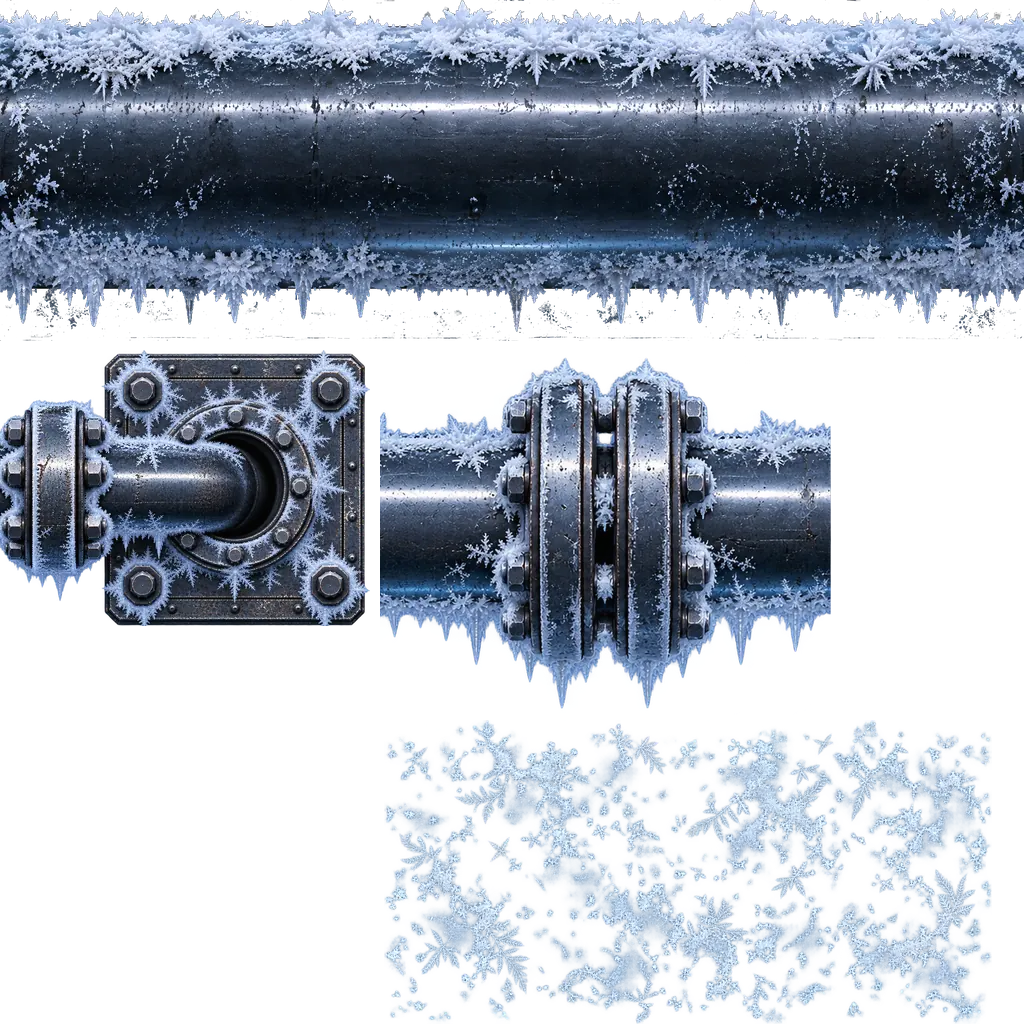
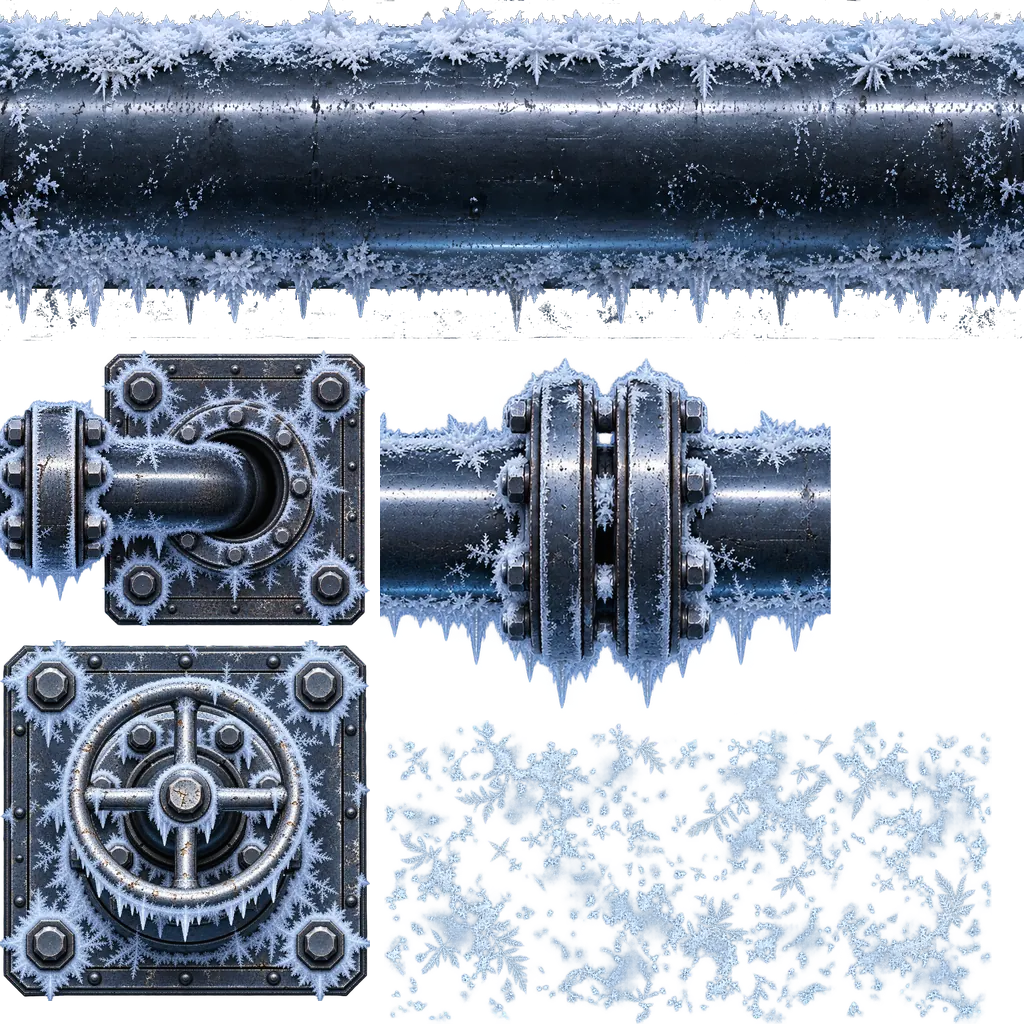
Les petits blocs froids : une tête de vanne, ou un arceau
Symptôme (aperçu sur iPad) : sur les petits blocs, la conduite ne
tenait pas — un joint écrasé entre deux moignons sur les blocs presque
carrés, deux traversées l'une dans l'autre sur un bloc moyen. Les pièces
étaient faites pour une conduite longue, et rien pour moins.

Correctif : le dessin suit la place (modeConduite, rapport L / T) :
- LONGUE (au moins deux traversées bout à bout, 2,73) : inchangée ;
- ARCEAU (de 1,6 à 2,73) : le tuyau sort du sol et y replonge — deux
  traversées bride contre bride, réduites ensemble (echelleArceau) pour
  tenir exactement dans le bloc ; les murs n'y changent rien ;
- VANNE (sous 1,6) : une tête de vanne gelée, carrée, au centre — une
  nouvelle image générée (plaque 1026 × 988 px, mesurée), ajoutée à
  l'atlas (cadre 370 × 361) et droite dans le repère du bloc.
La physique (piecesConduite) et le shader (conduiteSdfLocal) suivent les
trois modes ; l'ombre au sol et celle des lampes suivent le tuyau de
chaque mode (le volant, pour la vanne). Plus de « plot » à joint seul.
L'atlas passe à 441 Ko (qualité 78) : plafond de la famille à 450.

Vérification : conduite.spec — les seuils ; la vanne carrée centrée ;
l'arceau tient dans son bloc, ses deux traversées font toute la
longueur ; un mur n'y change rien ; le sens imposé change le dessin
(60 × 120 debout : arceau, couché : vanne) ; le cadre de la vanne est
celui du script. Le tableau 11 sous Chromium en double définition : le
[…]

Changed region(s): [[0.0, 0.625, 0.375, 1.0]]

diff --git a/src/render/renderer.ts b/src/render/renderer.ts
@@ -179,8 +179,20 @@ const vec4 CN_CORPS = ${v4(A.corps)};
 const vec4 CN_CADRE_BOUT = ${v4(A.bout)};
 const vec4 CN_CADRE_JOINT = ${v4(A.joint)};
 const vec4 CN_CADRE_GIVRE = ${v4(A.givre)};
+const vec4 CN_CADRE_VANNE = ${v4(A.vanne)};
+const float CN_TUYAU_TRAV = ${f(C.tuyauTraversee)};
+const float CN_SEUIL_VANNE = ${f(C.seuilVanne)};
+const float CN_VANNE_L = ${f(C.vanneImgL)};
+const float CN_VANNE_H = ${f(C.vanneImgH)};
 
-bool conduiteLongue(float L, float T) { return L >= (2.0 * CN_BOUT + 0.1) * T; }
+// le dessin selon la place — JUMEAUX de conduiteLongue, modeConduite et
+// echelleArceau (formes.ts) : 0 vanne, 1 arceau, 2 longue
+bool conduiteLongue(float L, float T) { return L >= 2.0 * CN_BOUT * T; }
+float modeConduite(float L, float T) {
+  if (conduiteLongue(L, T)) return 2.0;
+  return L < CN_SEUIL_VANNE * T ? 0.0 : 1.0;
+}
+float echelleArceau(float L, float T) { return min(1.0, L / (2.0 * CN_BOUT * T)); }
 
 float cnRect(float s, float t, float cs, float hs, float ht) {
   vec2 q = vec2(abs(s - cs) - hs, abs(t) - ht);
@@ -189,7 +201,7 @@ float cnRect(float s, float t, float cs, float hs, float ht) {
 
 // le joint le plus proche de s (abscisse centrée), ou 1e9 s'il n'y en a pas
 float jointPres(float s, float L, float T) {
-  if (!conduiteLongue(L, T)) return 0.0;
+  if (!conduiteLongue(L, T)) return 1e9;
   float n = floor((L * 0.5 - (CN_BOUT + 0.05 + CN_JOINT_DEMI) * T) / CN_PAS);
   if (n < 0.0) return 1e9;
   return clamp(floor(s / CN_PAS + 0.5), -n, n) * CN_PAS;
@@ -206,7 +218,21 @@ bool boutEnMur(float s, float bouts) {
 // pas de bride : le tuyau file jusqu'au bord du bloc — JUMEAU de
 // piecesConduite (formes.ts)
 float conduiteSdfLocal(float s, float t, float L, float T, float bouts) {
-  bool lg = conduiteLongue(L, T);
+  float mode = modeConduite(L, T);
+  if (mode < 0.5) {
+    float c = min(L, T);
+    return cnRect(s, t, 0.0, 0.5 * c, 0.5 * c);
+  }
+  if (mode < 1.5) {
+    float k = echelleArceau(L, T);
+    float dA = cnRect(s, t, 0.0, 0.5 * L, CN_TUYAU_TRAV * k * T);
+    dA = min(dA, cnRect(abs(s), t, L * 0.5 - (CN_BRIDE_A + CN_BRIDE_DE) * 0.5 * k * T,
+                        (CN_BRIDE_A - CN_BRIDE_DE) * 0.5 * k * T, 0.5 * k * T));
+    dA = min(dA, cnRect(abs(s), t, L * 0.5 - (CN_BB_A + CN_BB_DE) * 0.5 * k * T,
+                        (CN_BB_A - CN_BB_DE) * 0.5 * k * T, CN_BB_DEMI * k * T));
+    return dA;
+  }
+  bool lg = true;
   float retrait = lg ? CN_EMBOUT * T : 0.0;
   float a0 = -L * 0.5 + (boutEnMur(-1.0, bouts) ? 0.0 : retrait);
   float a1 = L * 0.5 - (boutEnMur(1.0, bouts) ? 0.0 : retrait);
@@ -224,6 +250,20 @@ float conduiteSdfLocal(float s, float t, float L, float T, float bouts) {
     d = min(d, cnRect(s, t, 0.5 * (j0 + j1), 0.5 * (j1 - j0), 0.5 * T));
   }
   return d;
+}
+
+// LA SILHOUETTE QUI OMBRE (ombre au sol, ombre des lampes) : le TUYAU,
+// pas la forme de collision — les brides y sont des rectangles pleins, et
+// leur ombre dure se lisait en pavés et en diagonales là où l'image est
+// ronde. La vanne ombre comme son volant (80 % de la plaque).
+float conduiteOmbreSdf(float s, float t, float L, float T) {
+  float mode = modeConduite(L, T);
+  if (mode < 0.5) {
+    float c = min(L, T);
+    return cnRect(s, t, 0.0, 0.40 * c, 0.40 * c);
+  }
+  if (mode < 1.5) return cnRect(s, t, 0.0, 0.5 * L, CN_TUYAU_TRAV * echelleArceau(L, T) * T);
+  return cnRect(s, t, 0.0, 0.5 * L, CN_TUYAU * T);
 }
 
 // le sens du tuyau : 0 auto (le grand côté), 1 horizontal, 2 vertical —
@@ -749,7 +789,7 @@ float conduiteOmbre(vec2 p, vec4 box, float code) {
   vec2 q = p - 0.5 * (box.xy + box.zw) - vec2(0.06, -0.06) * T;
   float s = horiz ? q.x : q.y;
   float t = horiz ? q.y : q.x;
-  float d = cnRect(s, t, 0.0, L * 0.5, CN_TUYAU * T);
+  float d = conduiteOmbreSdf(s, t, L, T);
   return mix(0.55, 1.0, smoothstep(-0.10 * T, 0.30 * T, d));
 }
 
@@ -762,17 +802,35 @@ vec4 conduiteNH3(vec2 loc, vec2 bsize, float px, float code) {
   float T = horiz ? bsize.y : bsize.x;
   float s = (horiz ? loc.x : loc.y) - L * 0.5; // le long, centré
   float t = (horiz ? loc.y : loc.x) - T * 0.5; // en travers, centré
-  bool lg = conduiteLongue(L, T);
+  float mode = modeConduite(L, T);
+  bool lg = mode > 1.5;
 
   vec4 acc = vec4(0.0);
+  if (mode < 0.5) {
+    // LA VANNE : la tête de vanne gelée, carrée, au centre du bloc — droite
+    // dans le repère du bloc (pas tournée avec le sens : c'est une vue du
+    // dessus, la lumière y reste en haut à gauche)
+    float c = min(L, T);
+    vec2 q = loc - 0.5 * bsize;
+    vec2 f = vec2(q.x / (CN_VANNE_L * c) + 0.5, 0.5 - q.y / (CN_VANNE_H * c));
+    acc = atlasCadre(CN_CADRE_VANNE, f, px, CN_CADRE_VANNE.z / (CN_VANNE_L * c));
+  } else if (mode < 1.5) {
+    // L'ARCEAU : le tuyau sort du sol et y replonge — deux traversées bride
+    // contre bride, réduites de k pour tenir ; à gauche, en miroir
+    float k = echelleArceau(L, T);
+    float lb = CN_BOUT * k * T;
+    vec2 f = vec2((abs(s) - (L * 0.5 - lb)) / lb, (CN_BOUT_H * k * T - t) / (2.0 * CN_BOUT_H * k * T));
+    acc = atlasCadre(CN_CADRE_BOUT, f, px, CN_CADRE_BOUT.w / (2.0 * CN_BOUT_H * k * T));
+  }
   // LE TRONÇON, répété EN MIROIR sur la longueur (l'image n'est pas
   // raccordable bord à bord : mesuré, 31 contre 8 à l'intérieur)
   float hb = CN_BANDE * T;
-  // un bout dans un mur : le tronçon file jusqu'au bord du bloc
-  bool mur = boutEnMur(s, bouts);
+  // un bout dans un mur : le tronçon file jusqu'au bord du bloc (une
+  // conduite longue seulement : l'arceau et la vanne tiennent dans le bloc)
+  bool mur = lg && boutEnMur(s, bouts);
   // un bout libre : le tronçon s'arrête sous la bride de la traversée
   float fin = (lg && !mur) ? L * 0.5 - CN_FIN_CORPS * T : L * 0.5;
-  if (abs(t) < hb && abs(s) < fin) {
+  if (lg && abs(t) < hb && abs(s) < fin) {
     float m = s / (CN_MOTIF * T);
     float tri = abs(fract(m * 0.5) * 2.0 - 1.0);
     acc = atlasCadre(CN_CORPS, vec2(tri, (hb - t) / (2.0 * hb)), px, CN_CORPS.w / (2.0 * hb));
@@ -790,7 +848,7 @@ vec4 conduiteNH3(vec2 loc, vec2 bsize, float px, float code) {
       acc = cnSur(acc, c * smoothstep(0.0, 0.02, f.x));
     }
   }
-  // LE JOINT à brides : sur un plot, seul au milieu ; ailleurs, tous les pas
+  // LE JOINT à brides, tous les pas, sur une conduite longue
   float sj = jointPres(s, L, T);
   if (sj < 1e8) {
     float dx = s - sj;
@@ -2843,8 +2901,8 @@ float sceneSdf(vec2 p, float alt) {
       vec2 szC = uBoxes[i].zw - uBoxes[i].xy;
       bool hC = conduiteHoriz(szC, conduiteSens(uBoxAux[i].z));
       vec2 qC = wb - 0.5 * (uBoxes[i].xy + uBoxes[i].zw);
-      d = min(d, cnRect(hC ? qC.x : qC.y, hC ? qC.y : qC.x, 0.0,
-                        0.5 * (hC ? szC.x : szC.y), CN_TUYAU * (hC ? szC.y : szC.x)));
+      d = min(d, conduiteOmbreSdf(hC ? qC.x : qC.y, hC ? qC.y : qC.x,
+                                  hC ? szC.x : szC.y, hC ? szC.y : szC.x));
       continue;
     }
     d = min(d, formeSdf(wb, uBoxes[i], dec.y, dec.z, dec.w));

diff --git a/src/game/formes.ts b/src/game/formes.ts
@@ -220,6 +220,14 @@ export const CONDUITE = {
   brideBoutDemi: 0.34,
   /** le tuyau file jusqu'au bout du bloc (sous la plaque) */
   embout: 0,
+  /** demi-épaisseur du tuyau de la traversée, givre compris (l'arceau) */
+  tuyauTraversee: 0.205,
+  /** sous ce rapport L / T, la conduite devient une tête de VANNE */
+  seuilVanne: 1.6,
+  /** l'image de la vanne autour de sa plaque (côté c = la plaque) : largeur
+   *  et hauteur de l'image, en c — la plaque en est centrée */
+  vanneImgL: 1.0195,
+  vanneImgH: 0.9942,
   /** le joint à brides : demi-longueur de l'image, haut et bas de l'image
    *  autour de l'axe, demi-longueur de ses brides */
   jointDemi: 0.698,
@@ -239,6 +247,7 @@ export const CONDUITE_ATLAS = {
   bout: [0, 350, 370, 276],
   joint: [380, 350, 451, 365],
   givre: [384, 720, 608, 304],
+  vanne: [0, 640, 370, 361],
 } as const
 
 /** LE SENS du tuyau (ObstacleBox.sens) : 0 auto — le long du grand côté —,
@@ -257,14 +266,33 @@ export function conduiteHoriz(w: number, h: number, sens?: number): boolean {
 /** Une conduite est LONGUE si ses deux pièces de bout y tiennent ; sinon,
  *  c'est un plot : un seul joint au milieu. */
 export function conduiteLongue(L: number, T: number): boolean {
-  return L >= (2 * CONDUITE.bout + 0.1) * T
+  return L >= 2 * CONDUITE.bout * T
+}
+
+/** LE DESSIN SELON LA PLACE (L / T). Une conduite longue a sa place ; en
+ *  dessous, ses pièces se chevauchaient (vu en aperçu sur iPad : un joint
+ *  écrasé entre deux moignons, deux traversées l'une dans l'autre) :
+ *  · VANNE (moins de 1,6) : une tête de vanne gelée, carrée, au centre ;
+ *  · ARCEAU (jusqu'à 2 traversées bout à bout) : le tuyau sort du sol et y
+ *    replonge — les deux traversées se rejoignent bride contre bride,
+ *    réduites ensemble (echelleArceau) pour tenir ;
+ *  · LONGUE : tronçon, joints, traversées ou murs aux bouts. */
+export type ModeConduite = 'vanne' | 'arceau' | 'longue'
+export function modeConduite(L: number, T: number): ModeConduite {
+  if (conduiteLongue(L, T)) return 'longue'
+  return L < CONDUITE.seuilVanne * T ? 'vanne' : 'arceau'
+}
+/** La réduction des deux traversées d'un arceau : elles se touchent au
+ *  milieu. 1 au seuil de la conduite longue. */
+export function echelleArceau(L: number, T: number): number {
+  return Math.min(1, L / (2 * CONDUITE.bout * T))
 }
 
 /** Les joints d'une conduite, en abscisse le long du bloc (centrée) : un tous
  *  les `pas` tant qu'ils restent à l'écart des pièces de bout ; au milieu,
  *  seul, sur un plot. */
 export function jointsConduite(L: number, T: number): number[] {
-  if (!conduiteLongue(L, T)) return [0]
+  if (!conduiteLongue(L, T)) return []
   const libre = L / 2 - (CONDUITE.bout + 0.05 + CONDUITE.jointDemi) * T
   const out: number[] = []
   const n = Math.floor(libre / CONDUITE.pas)
@@ -282,24 +310,39 @@ export const BOUT_MUR_POS = 2
  *  bout, les brides des joints — leur union est la forme. */
 export function piecesConduite(L: number, T: number, bouts = 0): [number, number, number][] {
   const C = CONDUITE
-  const longue = conduiteLongue(L, T)
-  // un bout DANS UN MUR (bouts : 1 côté négatif, 2 côté positif) n'a pas de
-  // bride : le tuyau file jusqu'au bord du bloc, et le mur le prend
+  const mode = modeConduite(L, T)
+  if (mode === 'vanne') {
+    // la plaque carrée de la vanne, centrée, du côté de l'épaisseur
+    const c = Math.min(L, T)
+    return [[-c / 2, c / 2, c / 2]]
+  }
+  if (mode === 'arceau') {
+    // deux traversées bride contre bride, réduites de k ; les murs n'y
+    // changent rien — la pièce entière tient dans le bloc
+    const k = echelleArceau(L, T)
+    return [
+      [-L / 2, L / 2, C.tuyauTraversee * k * T],
+      [L / 2 - C.brideA * k * T, L / 2 - C.brideDe * k * T, (k * T) / 2],
+      [-L / 2 + C.brideDe * k * T, -L / 2 + C.brideA * k * T, (k * T) / 2],
+      [L / 2 - C.brideBoutA * k * T, L / 2 - C.brideBoutDe * k * T, C.brideBoutDemi * k * T],
+      [-L / 2 + C.brideBoutDe * k * T, -L / 2 + C.brideBoutA * k * T, C.brideBoutDemi * k * T],
+    ]
+  }
+  // LONGUE — un bout DANS UN MUR (bouts : 1 côté négatif, 2 côté positif)
+  // n'a pas de traversée : le tuyau file jusqu'au bord du bloc, et le mur
+  // le prend
   const murNeg = (bouts & BOUT_MUR_NEG) !== 0
   const murPos = (bouts & BOUT_MUR_POS) !== 0
-  const retrait = longue ? C.embout * T : 0
   const out: [number, number, number][] = [
-    [-L / 2 + (murNeg ? 0 : retrait), L / 2 - (murPos ? 0 : retrait), C.tuyau * T],
+    [-L / 2 + (murNeg ? 0 : C.embout * T), L / 2 - (murPos ? 0 : C.embout * T), C.tuyau * T],
   ]
-  if (longue) {
-    if (!murPos) {
-      out.push([L / 2 - C.brideA * T, L / 2 - C.brideDe * T, T / 2])
-      out.push([L / 2 - C.brideBoutA * T, L / 2 - C.brideBoutDe * T, C.brideBoutDemi * T])
-    }
-    if (!murNeg) {
-      out.push([-L / 2 + C.brideDe * T, -L / 2 + C.brideA * T, T / 2])
-      out.push([-L / 2 + C.brideBoutDe * T, -L / 2 + C.brideBoutA * T, C.brideBoutDemi * T])
-    }
+  if (!murPos) {
+    out.push([L / 2 - C.brideA * T, L / 2 - C.brideDe * T, T / 2])
+    out.push([L / 2 - C.brideBoutA * T, L / 2 - C.brideBoutDe * T, C.brideBoutDemi * T])
+  }
+  if (!murNeg) {
+    out.push([-L / 2 + C.brideDe * T, -L / 2 + C.brideA * T, T / 2])
+    out.push([-L / 2 + C.brideBoutDe * T, -L / 2 + C.brideBoutA * T, C.brideBoutDemi * T])
   }
   for (const j of jointsConduite(L, T)) {
     out.push([Math.max(-L / 2, j - C.brideJoint * T), Math.min(L / 2, j + C.brideJoint * T), T / 2])

diff --git a/src/game/conduite.spec.ts b/src/game/conduite.spec.ts
@@ -11,6 +11,8 @@ import {
   FORME_CONDUITE,
   FORME_DISQUE,
   conduiteLongue,
+  echelleArceau,
+  modeConduite,
   formeContact,
   jointsConduite,
   piecesConduite,
@@ -55,7 +57,7 @@ describe('conduite — forme physique', () => {
   it('une longue conduite : brides aux bouts, joints au pas, à l’écart des bouts', () => {
     expect(conduiteLongue(670, 60)).toBe(true)
     expect(conduiteLongue(100, 100)).toBe(false)
-    expect(jointsConduite(100, 100)).toEqual([0]) // un plot : un joint au milieu
+    expect(jointsConduite(100, 100)).toEqual([]) // un petit bloc n'a pas de joint
     const j = jointsConduite(1200, 60)
     expect(j).toContain(0)
     expect(Math.max(...j) + CONDUITE.jointDemi * 60).toBeLessThanOrEqual(600 - CONDUITE.bout * 60)
@@ -91,17 +93,16 @@ describe('conduite — forme physique', () => {
     expect(contact(b, s, 63).dist).toBeCloseTo(3, 9)
   })
 
-  // LE SENS CHOISI à l'éditeur : un plot presque carré se couche ou se
-  // dresse, et sa collision le suit — le diamètre est l'AUTRE côté.
-  it('le sens imposé couche ou dresse le tuyau, collision comprise', () => {
-    const plot = box(0, 0, 100, 120, MAT_FROID) // auto : debout (120 > 100)
-    // hors du joint central (qui tient ±0,322·T autour du milieu)
-    const flanc = (b: ObstacleBox) => contact(b, 50 + CONDUITE.tuyau * 100 + 4, 105)
-    // debout, le tuyau a 100 de large : son flanc droit est à 50 + 0,28·100
-    expect(flanc(plot).dist).toBeCloseTo(4, 9)
-    expect(flanc({ ...plot, sens: SENS_VERTICAL }).dist).toBeCloseTo(4, 9)
-    // couché, il a 120 de diamètre et remplit la largeur : ce point est dedans
-    expect(flanc({ ...plot, sens: SENS_HORIZONTAL }).dist).toBeLessThan(0)
+  // LE SENS CHOISI à l'éditeur : il décide de ce qui tient dans le bloc —
+  // 60 × 120 debout est un arceau (le long des 120) ; couché, le tuyau
+  // n'aurait que 60 de long pour 120 d'épaisseur : une vanne de 60.
+  it('le sens imposé change le dessin, collision comprise', () => {
+    const b = box(0, 0, 60, 120, MAT_FROID)
+    // debout (auto) : la plaque de la traversée du haut couvre l'axe
+    expect(contact(b, 30, 100).dist).toBeLessThan(0)
+    // couché : la vanne de 60, centrée (y 30..90) — ce point est du sol
+    expect(contact({ ...b, sens: SENS_HORIZONTAL }, 30, 100).dist).toBeCloseTo(10, 9)
+    expect(contact({ ...b, sens: SENS_VERTICAL }, 30, 100).dist).toBeLessThan(0)
     expect(conduiteHoriz(100, 120)).toBe(false)
     expect(conduiteHoriz(100, 120, SENS_HORIZONTAL)).toBe(true)
   })
@@ -119,6 +120,50 @@ describe('conduite — forme physique', () => {
     s.setLevel([box(0, 0, 670, 60, MAT_FROID)], [])
     formeContact(170, 57, s.boxes[0], out)
     expect(out.dist).toBeGreaterThan(0)
+  })
+})
+
+// LES PETITS BLOCS : en dessous de deux traversées bout à bout, les pièces
+// de la conduite se chevauchaient (un joint écrasé entre deux moignons,
+// deux traversées l'une dans l'autre — vu en aperçu sur iPad). Le dessin
+// suit la place : vanne, arceau, conduite longue.
+describe('conduite — selon la place', () => {
+  it('les seuils : vanne sous 1,6, arceau jusqu’à deux traversées, longue au-delà', () => {
+    expect(modeConduite(100, 100)).toBe('vanne')
+    expect(modeConduite(95, 60)).toBe('vanne')
+    expect(modeConduite(100, 60)).toBe('arceau')
+    expect(modeConduite(2 * CONDUITE.bout * 60 - 1, 60)).toBe('arceau')
+    expect(modeConduite(2 * CONDUITE.bout * 60, 60)).toBe('longue')
+    expect(echelleArceau(2 * CONDUITE.bout * 60, 60)).toBe(1)
+    expect(echelleArceau(100, 60)).toBeCloseTo(100 / (2 * CONDUITE.bout * 60), 9)
+  })
+
+  it('la vanne : sa plaque carrée, centrée, du côté de l’épaisseur', () => {
+    const plot = box(0, 0, 100, 120, MAT_FROID) // debout : L 120, T 100
+    expect(contact(plot, 50, 60).dist).toBeLessThan(0)
+    expect(contact(plot, 50, 112).dist).toBeCloseTo(2, 9) // la plaque s'arrête à 110
+    expect(contact(plot, 104, 60).dist).toBeCloseTo(4, 9)
+  })
+
+  it('l’arceau tient dans son bloc, sans chevauchement : les deux traversées se touchent au milieu', () => {
+    for (const L of [100, 130, 160]) {
+      const T = 60
+      const k = echelleArceau(L, T)
+      for (const [s0, s1, e] of piecesConduite(L, T)) {
+        expect(s0).toBeGreaterThanOrEqual(-L / 2 - 1e-9)
+        expect(s1).toBeLessThanOrEqual(L / 2 + 1e-9)
+        expect(e).toBeLessThanOrEqual(T / 2 + 1e-9)
+      }
+      // chaque traversée mesure k × bout × T : à deux, toute la longueur
+      expect(2 * CONDUITE.bout * k * T).toBeCloseTo(L, 9)
+    }
+  })
+
+  it('un arceau contre un mur garde ses deux traversées : il tient dans le bloc', () => {
+    const b = box(0, 0, 130, 60, MAT_FROID)
+    const mur = box(130, -100, 200, 200, MAT_WALL)
+    const p = formePhysique(b, [b, mur], null)
+    expect(piecesConduite(130, 60, (p as FormeBox).bouts ?? 0)).toEqual(piecesConduite(130, 60))
   })
 })
 
@@ -194,6 +239,7 @@ describe('conduite — les jumeaux', () => {
     expect(cadre('BOUT')).toEqual(CONDUITE_ATLAS.bout)
     expect(cadre('JOINT')).toEqual(CONDUITE_ATLAS.joint)
     expect(cadre('GIVRE')).toEqual(CONDUITE_ATLAS.givre)
+    expect(cadre('VANNE')).toEqual(CONDUITE_ATLAS.vanne)
     expect(Number(py.match(/^TAILLE = (\d+)/m)![1])).toBe(CONDUITE_ATLAS.taille)
   })
 })

diff --git a/tools/images/conduite_atlas.py b/tools/images/conduite_atlas.py
@@ -14,6 +14,7 @@ Les sources (docs/assets-ia.md, « La conduite d'ammoniac ») :
                                                 plonge dans une plaque de sol
   masters/images/sources/conduite-raccords.png  la planche de raccords
   masters/images/sources/conduite-givre.png     le givre du sol, détouré
+  masters/images/sources/conduite-vanne.webp    la tête de vanne (petits blocs)
 
 Sortie : masters/images/conduite-atlas.png (1024², RGBA), que
 tools/images/prepare.py livre ensuite en public/assets/conduite-atlas.webp.
@@ -47,6 +48,7 @@ CADRE_CORPS = (0, 0, 1024, 341)
 CADRE_BOUT = (0, 350, 370, 276)
 CADRE_JOINT = (380, 350, 451, 365)
 CADRE_GIVRE = (384, 720, 608, 304)
+CADRE_VANNE = (0, 640, 370, 361)
 
 
 def lis(nom: str) -> Image.Image:
@@ -111,6 +113,9 @@ def main() -> None:
     # (x 380), bride de 79 à 483
     colle(atlas, lis('conduite-raccords.png').crop((98, 56, 662, 513)), CADRE_JOINT)
     colle(atlas, lis('conduite-givre.png'), CADRE_GIVRE)
+    # LA VANNE (les blocs presque carrés) : la plaque (x 48..1074,
+    # y 70..1058, mesurée) et 10 à 16 px de marge, centrée sur la plaque
+    colle(atlas, lis('conduite-vanne.webp').crop((38, 54, 1084, 1074)), CADRE_VANNE)
     saigne(atlas).save(DST)
     print('écrit', os.path.relpath(DST, ROOT))
 

diff --git a/tools/images/prepare.py b/tools/images/prepare.py
@@ -151,8 +151,9 @@ FAMILLES: list[Famille] = [
     ),
     Famille(
         'atlas de la conduite', ('conduite-atlas',), taille=(1024, 1024), luma_max=0.60,
-        # mesuré : 450 Ko à 84, 398 Ko à 78 — il REMPLACE froid.webp (256 Ko)
-        qualite=78, poids_max_ko=420,
+        # mesuré : 450 Ko à 84, 398 Ko à 78 — il REMPLACE froid.webp (256 Ko) ;
+        # la tête de vanne (25/09) le porte à 441 Ko à 78
+        qualite=78, poids_max_ko=450,
         note='quatre pièces assemblées par tools/images/conduite_atlas.py — leurs cadres sont un contrat avec le shader',
     ),
     Famille(
